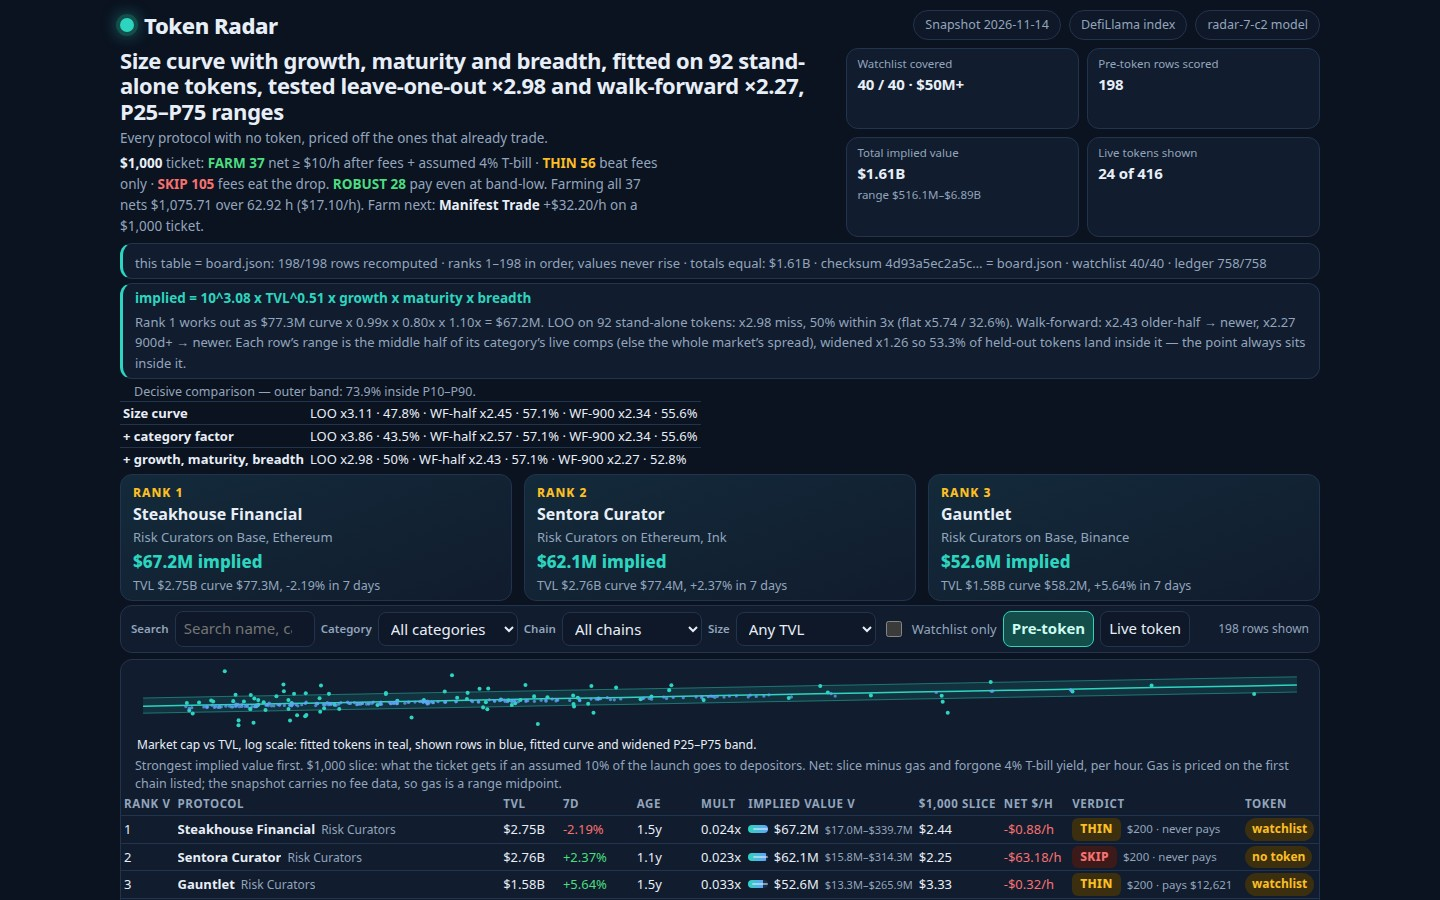
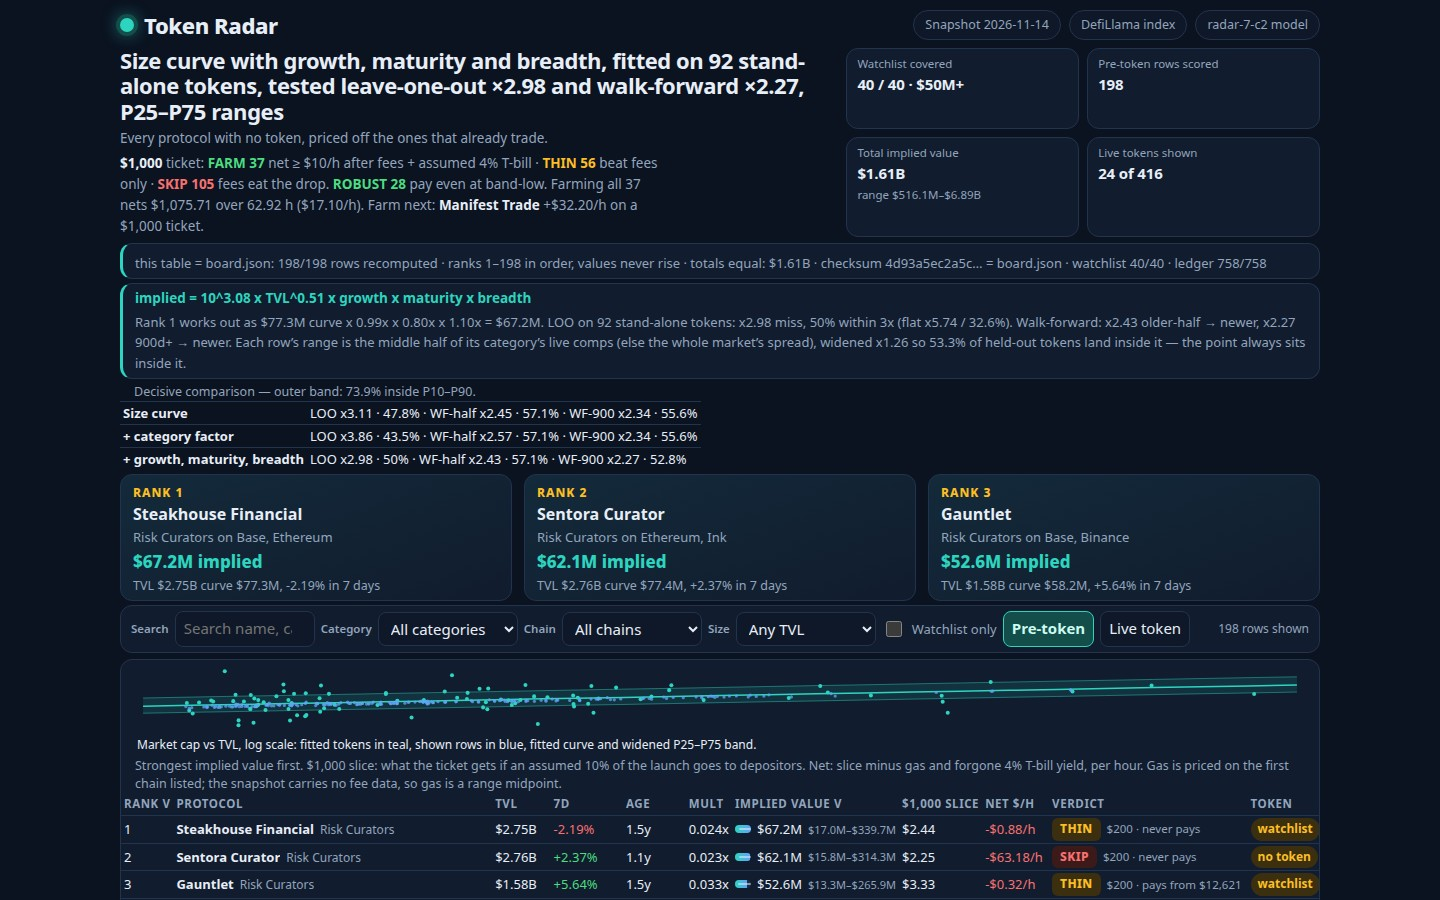
slot7: red-team fix round 2 — qualify 'beats the curve alone' to median miss, 'pays from' board cell, hinge comment, stop-threshold judgement label
F-A: term-panel sub-text now 'beats the curve alone on median miss on
all three tests' (true on medians 2.98<3.11, 2.43<2.45, 2.27<2.34; the
decisive table above it shows the WF-900 within-3x loss 52.8% vs 55.6%).
F-C: board verdict cell 'pays $12,621' -> 'pays from $12,621' (deposit
threshold, not a payout), matching the detail view.
F-E: stop rule TVL clause labelled '(a judgement call)' — the 50% trigger
has no derivation (the 30-day trigger is grounded).
F-B: hinge comment rewritten to the computed table — LOO x2.97/50.0%,
45/92, wins both WF splits on median (x2.33/x2.18), bootstrap CIs cover
zero (LOO [-0.007,+0.021]; WF-half [-0.113,+0.118]; WF-900 [-0.177,+0.202]).
Byte budget: dossier text 65,512 -> 65,535 (cap 65,536, 1 byte spare);
+15 F-A, +5 F-C, +19 F-E, -16 blank lines displaced. F-D (band-width
x19.93 item, size-ordering second half) carried to Slot #8: 69/75 bytes,
unfundable even displacing all 36 blank lines. Board hash unchanged
4d93a5ec2a5c3034427eca76f339c39128941698fed68181fdfa6e4e0d9c0e3a;
screenshots 1/2/3 retaken 1440x900 q90 and re-verified.

Changed region(s): [[0.3438, 0.8711, 0.9375, 0.9956], [0.125, 0.8711, 0.2812, 0.9956]]

diff --git a/dashboard/app.js b/dashboard/app.js
@@ -5,7 +5,6 @@
   if (!DATA) return;
   var app = document.getElementById('board');
   var state = { q: '', category: 'all', chain: 'all', watchOnly: false, minTvl: 0, tab: 'pre-token', sort: 'implied', dir: -1, selected: null };
-
   function fmtUsd(n) {
     if (n === null || n === undefined || !isFinite(n)) return 'n/a';
     if (Math.abs(n) >= 1e9) return '$' + (n / 1e9).toFixed(2) + 'B';
@@ -29,7 +28,6 @@
   }
   function fmtDollars(n) { if (n === null || n === undefined || !isFinite(n)) return 'n/a'; return '$' + Math.round(n).toString().replace(/\B(?=(\d{3})+(?!\d))/g, ','); }
   function fmtExact(n) { if (n === null || n === undefined || !isFinite(n)) return 'n/a'; var s = n < 0 ? '-' : '', a = Math.abs(n).toFixed(2).split('.'); return s + '$' + a[0].replace(/\B(?=(\d{3})+(?!\d))/g, ',') + '.' + a[1]; }
-
   function impliedOf(row, model) {
     var growth = Math.min(model.growth_cap, Math.max(model.growth_floor, row.change_7d === null || row.change_7d === undefined ? 0 : row.change_7d));
     var growthMult = 1 + (growth / 100) * model.growth_weight, age = row.age_days === null || row.age_days === undefined ? model.unknown_age_days : row.age_days;
@@ -45,7 +43,6 @@
     if (r.kind === 'breakeven_odds') { var o = slice > 0 ? (gas + forgone) / slice : Infinity; return o <= r.farm_max ? 'FARM' : o <= r.thin_max ? 'THIN' : 'SKIP'; }
     return net > 0 ? 'FARM' : slice - gas > 0 ? 'THIN' : 'SKIP';
   }
-
   function gasTxUsd(chain) {
     var g = DATA.farm.gas_tx, c = (chain || '').toLowerCase(), k;
     for (k in g) { if (k !== 'other' && c.indexOf(k) >= 0) return g[k]; }
@@ -80,7 +77,6 @@
       deposit_usd: deposit, deposit_slice_usd: round2(depositSlice), deposit_forgone_usd: round2(depositForgone), deposit_net_usd: round2(depositNet), deposit_net_per_hour_usd: round2(depositNet / (minutes / 60))
     };
   }
-
   function el(tag, attrs) {
     var node = document.createElement(tag);
     if (attrs) {
@@ -100,7 +96,6 @@
     }
     return node;
   }
-
   function chainOf(p) { var first = firstChainOf(p); return first === '' ? 'its main chain' : first; }
   function tierCapitalFor(p) { if (p.tvl_usd >= 1e9) return 200; if (p.tvl_usd >= 1e8) return 100; if (p.tvl_usd >= 5e7) return 75; return 50; }
   function gasFor(p) {
@@ -156,13 +151,12 @@
       { text: 'Use a fresh wallet holding only the funds you plan to farm, funded from an exchange, seed phrase offline — never farm from the wallet holding your savings.', cost: 'about ' + fmtGas(DATA.farm.gas_funding_txs * txGas) + ' of gas for the first transaction', time: '5 minutes' },
       { text: actionFor(p, capital, chain), cost: '$' + capital + ' of capital and ' + gas, time: '15 minutes to set up' },
       { text: secondActionFor(p, capital, chain), cost: 'about ' + fmtGas(DATA.farm.gas_weekly_txs * txGas) + ' of gas a week', time: '10 minutes a week' },
-      { text: 'Hold the position at least ' + hold + ' days so the activity spans more than one snapshot; do the weekly action on the same day each week. Abandon the farm if TVL falls below half its starting value or no points program appears within ' + hold + ' days.', cost: 'the $' + capital + ' stays in the position', time: hold + ' days' },
+      { text: 'Hold the position at least ' + hold + ' days so the activity spans more than one snapshot; do the weekly action on the same day each week. Abandon the farm if TVL falls below half its starting value (a judgement call) or no points program appears within ' + hold + ' days.', cost: 'the $' + capital + ' stays in the position', time: hold + ' days' },
       { text: "Before you withdraw, search the protocol name plus 'points' on the official domain only, and check whether your wallet qualifies.", cost: 'no fee to check, and never pay to claim', time: '10 minutes' },
       { text: "If a token ever launches, claim only from the protocol's own published link and verify the contract twice; never sign a blind approval.", cost: 'gas only, never a claim fee', time: '10 minutes at claim time' },
       { text: 'Log the wallet, the dates and every transaction, then revoke approvals you no longer need on the chain\'s token-approval page.', cost: 'nothing but the log', time: '5 minutes' }
     ].map(stepText);
   }
-
   function readHash() {
     var hash = window.location.hash.replace(/^#/, '');
     if (!hash) return;
@@ -188,7 +182,6 @@
   }
 
   function chainLabel(r) { return (r.chains && r.chains.length) ? r.chains.slice(0, 2).join(', ') : 'an unnamed chain'; }
-
   function rows() {
     var q = state.q.trim().toLowerCase();
     return DATA.rows.filter(function (r) {
@@ -218,7 +211,6 @@
       return a.slug < b.slug ? -1 : a.slug > b.slug ? 1 : 0;
     });
   }
-
   function walkForward() {
     var w = DATA.walk_forward;
     return w && w.days900 ? w.days900.median_miss : null;
@@ -236,7 +228,6 @@
       )
     );
   }
-
   function lede() {
     var vc = DATA.verdict_counts || { farm: 0, thin: 0, skip: 0 };
     var lo = 0, hi = 0;
@@ -266,7 +257,6 @@
         el('div', { class: 'fact' }, el('span', { text: 'Live tokens shown' }), el('b', { text: DATA.live.length + ' of ' + (DATA.ledger ? DATA.ledger.live_token : DATA.live_size) })))
     );
   }
-
   function formulaBar() {
     var top = DATA.rows[0], sc = DATA.size_curve, v = DATA.validation, w = DATA.walk_forward, b = DATA.band_honesty;
     var example = top ? 'Rank 1 works out as ' + fmtUsd(top.curve_usd) + ' curve x ' + fmtMult(top.growth_multiplier) + ' x ' + fmtMult(top.maturity_multiplier) + ' x ' + fmtMult(top.breadth_multiplier) + ' = ' + fmtUsd(top.implied_value_usd) + '.' : '';
@@ -284,7 +274,6 @@
     var s = led.set_aside || {};
     return (s.bridge || 0) + (s.liquid_staking || 0) + (s.exchange || 0) + (s.versioned || 0) + (s.wrapped || 0) + (s.kin || 0);
   }
-
   function integrityStrip() {
     var n = DATA.rows.length, ok = 0, sum = 0, ordered = true, watch = 0;
     DATA.rows.forEach(function (r, i) {
@@ -303,7 +292,6 @@
       el('p', { text: text })
     );
   }
-
   function ledgerPanel() {
     var led = DATA.ledger;
     if (!led) return null;
@@ -340,7 +328,6 @@
       el('ul', null, items.map(function (t) { return el('li', { text: t }); }))
     );
   }
-
   function spotlight() {
     var top3 = DATA.rows.slice(0, 3);
     return el('section', { class: 'spot', 'aria-label': 'Top three by implied value' },
@@ -386,7 +373,6 @@
     return el('th', { scope: 'col' },
       el('button', { type: 'button', onclick: function () { if (state.sort === key) state.dir = -state.dir; else { state.sort = key; state.dir = -1; } render(); } }, label, state.sort === key ? el('span', { 'aria-hidden': 'true', text: state.dir < 0 ? ' v' : ' ^' }) : null));
   }
-
   function quantile(sorted, q) {
     var n = sorted.length, pos, lo, hi;
     if (n === 0) return 0;
@@ -434,10 +420,9 @@
   function verdictCell(r) {
     var t = r.ticket || ticketOf(r);
     var cls = t.verdict === 'FARM' ? 'farm' : t.verdict === 'THIN' ? 'thin' : 'skipv';
-    var sub = fmtDollars(t.deposit_usd) + ' · ' + (t.pays_from_usd === null ? 'never pays' : 'pays ' + fmtDollars(t.pays_from_usd));
+    var sub = fmtDollars(t.deposit_usd) + ' · ' + (t.pays_from_usd === null ? 'never pays' : 'pays from ' + fmtDollars(t.pays_from_usd));
     return el('td', null, el('div', { class: 'verdict' }, el('span', { class: 'verdict-chip ' + cls, text: t.verdict }), el('span', { class: 'sub', text: sub })));
   }
-
   function boardTable() {
     var list = sortedRows(rows());
     if (list.length === 0) {
@@ -507,7 +492,6 @@
           el('thead', null, el('tr', null, el('th', { scope: 'col', text: 'Status' }), el('th', { scope: 'col', text: 'Protocol' }), el('th', { scope: 'col', text: 'TVL' }), el('th', { scope: 'col', text: '7d' }), el('th', { scope: 'col', text: 'Market cap' }), el('th', { scope: 'col', text: 'Token' }))),
           tbody)));
   }
-
   function modelPanel() {
     var m = DATA.model, sc = DATA.size_curve, v = DATA.validation, w = DATA.walk_forward, b = DATA.band_honesty, fu = DATA.fit_universe;
     var bd = DATA.bar_decision;
@@ -535,7 +519,7 @@
     });
     return el('section', { class: 'panel' },
       el('h2', { text: 'What was tried, and what won' }),
-      el('p', { class: 'sub', text: 'Every term below was scored on two held-out tests: leave-one-out and walk-forward by listing date (older fit, newer tested). A term that wins one test but loses the other is not kept; no dropped term beats the shipped model on both tests by a margin the paired bootstrap confirms: the $1B hinge wins on medians, but its bootstrap interval covers zero. The shipped model is the curve with growth, maturity and breadth — no category factor: fitted and dropped, losing on all three tests. The remodel beats the curve alone on all three tests.' }),
+      el('p', { class: 'sub', text: 'Every term below was scored on two held-out tests: leave-one-out and walk-forward by listing date (older fit, newer tested). A term that wins one test but loses the other is not kept; no dropped term beats the shipped model on both tests by a margin the paired bootstrap confirms: the $1B hinge wins on medians, but its bootstrap interval covers zero. The shipped model is the curve with growth, maturity and breadth — no category factor: fitted and dropped, losing on all three tests. The remodel beats the curve alone on median miss on all three tests.' }),
       el('div', { class: 'table-wrap' },
         el('table', null,
           el('thead', null, el('tr', null, el('th', { scope: 'col', text: 'Term' }), el('th', { scope: 'col', text: 'Leave-one-out' }), el('th', { scope: 'col', text: 'WF older half → newer' }), el('th', { scope: 'col', text: 'WF 900d+ → newer' }), el('th', { scope: 'col', text: 'Verdict' }))),

diff --git a/lib/model.ts b/lib/model.ts
@@ -94,10 +94,13 @@
 // every term with both held-out tests. The line is now: intercept
 // 3.0755, slope 0.5098. The 128-token fit (2.3849/0.6048, LOO x3.74,
 // walk-forward x3.46/x3.57) was tested and not kept: wrapped and bridged
-// products bend the slope. The $1B hinge re-tested on the 92 loses LOO
-// (x3.33, 43.5%), wins 42 of 92 tokens, its paired-bootstrap intervals
-// still cover zero, and it wins one walk-forward split only — still
-// selection noise. The printed band was too narrow before recalibration
+// products bend the slope. The $1B hinge re-tested on the 92 wins on
+// medians — LOO x2.97 (50.0% within 3x), 45 of 92 tokens, walk-forward
+// x2.33/x2.18, winning both splits on median — but its paired-bootstrap
+// intervals still cover zero, and an independent re-check agrees (LOO
+// median-difference 95% CI [-0.007, +0.021]; WF-half [-0.113, +0.118],
+// WF-900 [-0.177, +0.202]) — still selection noise. The printed band was
+// too narrow before recalibration
 // (leave-one-out put 35.9% of tokens inside it, not the 50% a middle
 // band claims), so the band is widened by the widening the build computes
 // until held-out coverage reaches 50%, and the measured coverage is
